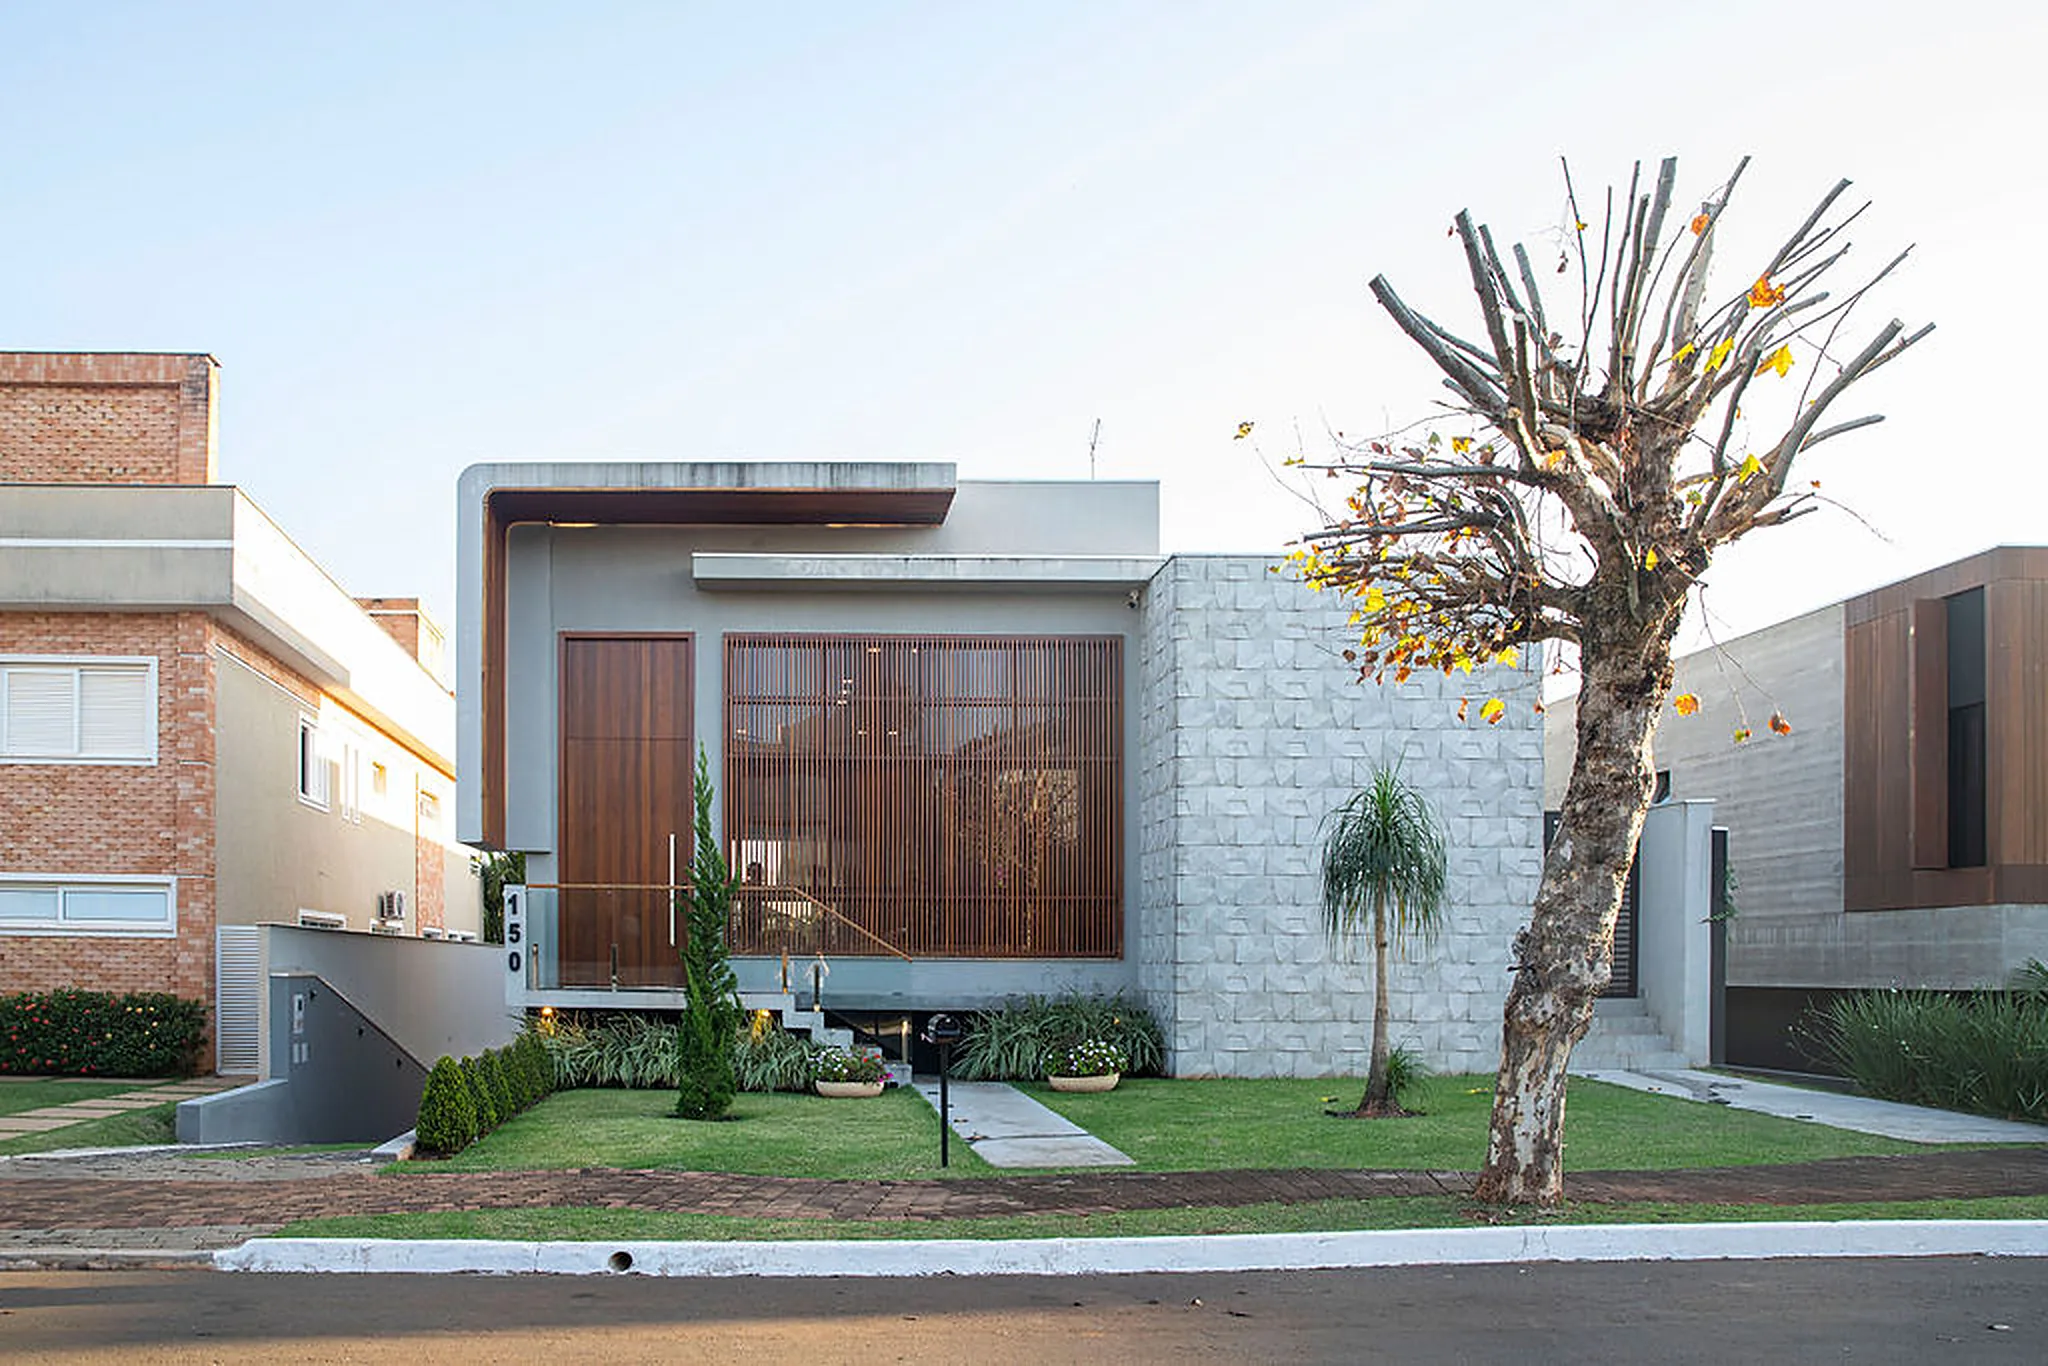
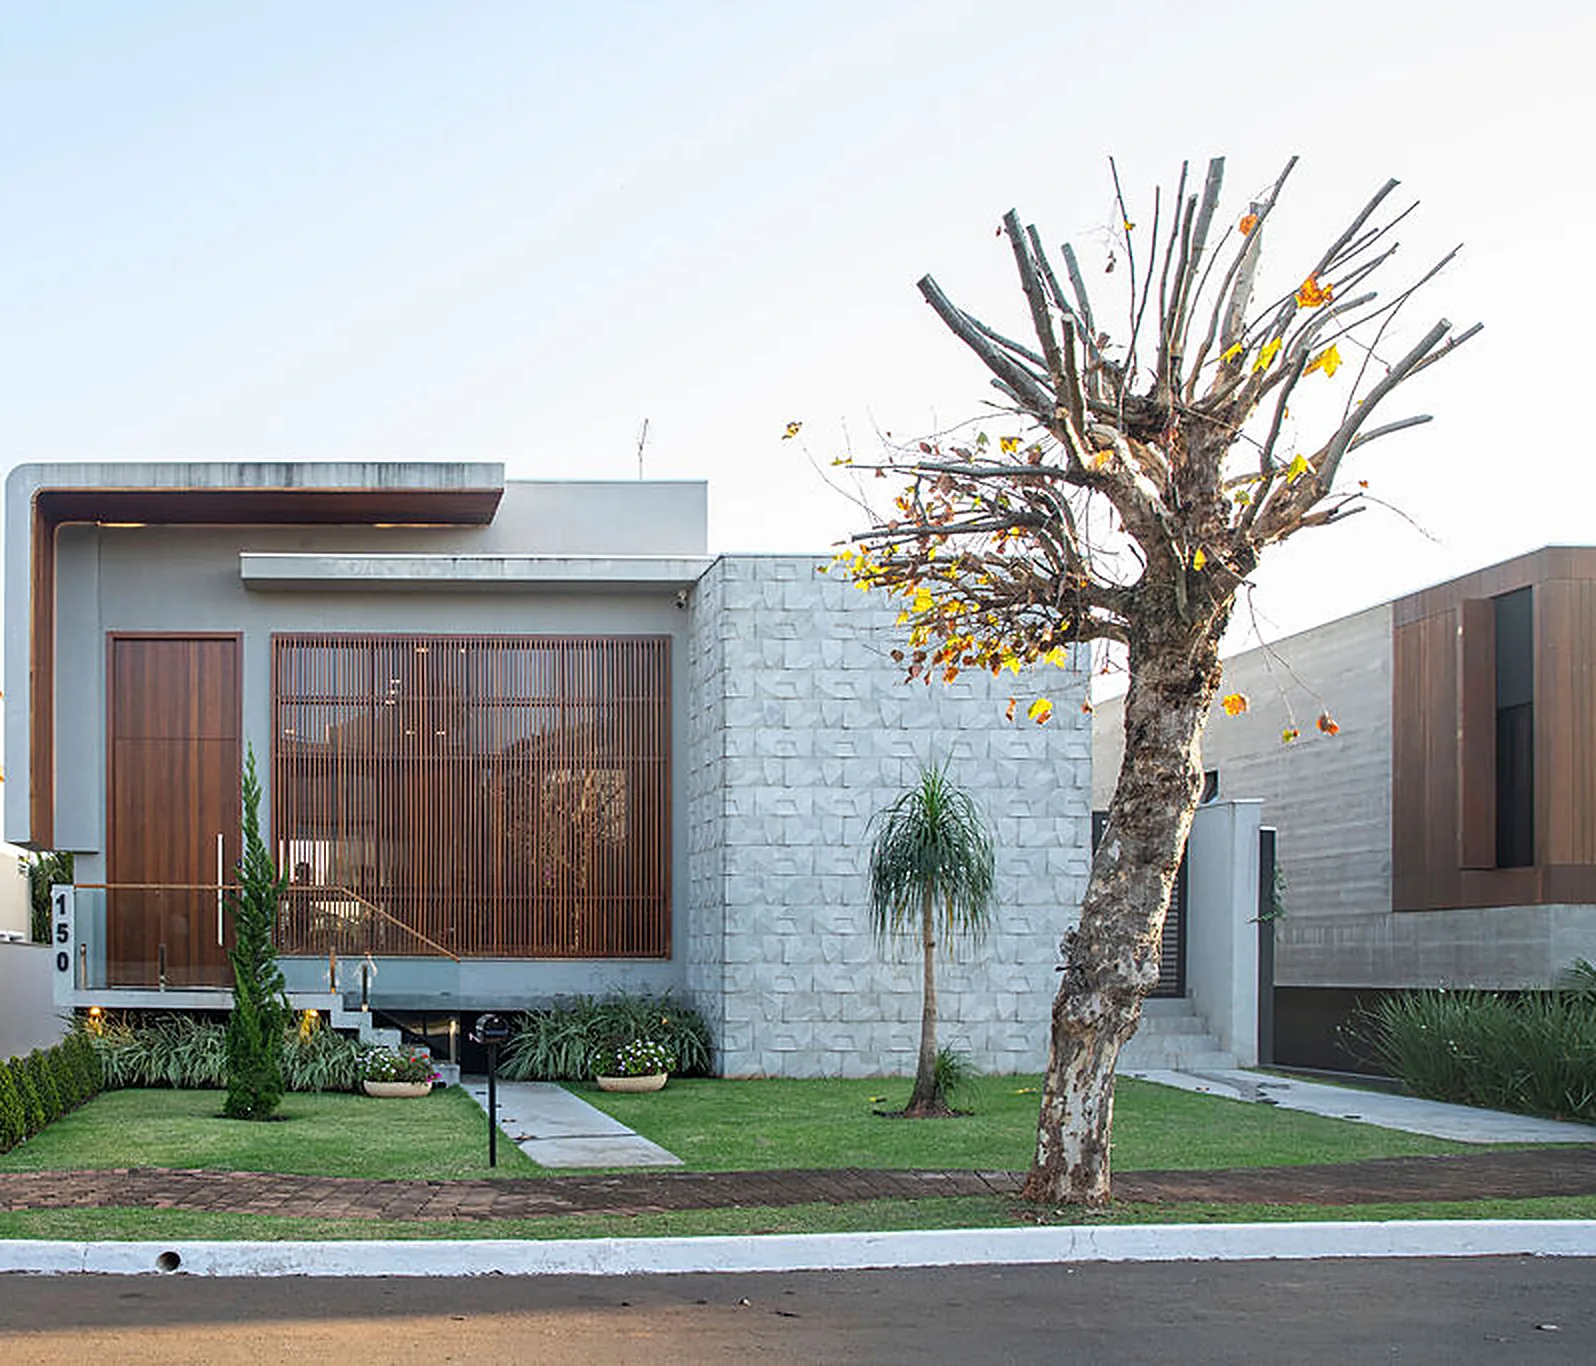
Tira a casa de tijolo da fachada no hero da CA0001
Recorte do JPEG original de x=226 até a borda direita (798x683), logo
antes da laje da casa à venda, então a vizinha de tijolo sai por inteiro.
Ampliado 2x com lanczos para 1596x1366, unsharp leve, webp q82 (239 KB).

No celular o hero corta as laterais, e com o recorte assimétrico o centro
caía na parede de pedra. object-position 28% traz o brise e a porta de
volta para o meio; no desktop a largura preenche a tela e isso não muda
nada.

diff --git a/royalpark-ca0001/public/css/style.css b/royalpark-ca0001/public/css/style.css
@@ -120,7 +120,8 @@ body.is-ready .nav { transform: none; opacity: 1; }
 /* ---------- Hero (mais baixo que o da AP0223) ---------- */
 .hero { position: relative; min-height: 92svh; display: flex; align-items: flex-end; padding: 110px var(--pad) 56px; overflow: hidden; color: #fff; --line: rgba(255,255,255,.22); --fg-2: rgba(255,255,255,.72); --champ: var(--brand-light); }
 .hero__bg { position: absolute; inset: 0; }
-.hero__bg img { width: 100%; height: 100%; object-fit: cover; transform: scale(1.15); opacity: 0; }
+/* no celular a foto é cortada nas laterais: 28% mantém o brise e a porta no centro */
+.hero__bg img { width: 100%; height: 100%; object-fit: cover; object-position: 28% 50%; transform: scale(1.15); opacity: 0; }
 /* a foto do hero é clara (gourmet ao sol), então o véu é um pouco mais forte
    que o da AP0223 para o texto branco continuar legível */
 .hero__bg::after { content: ''; position: absolute; inset: 0; background: linear-gradient(0deg, rgba(47,39,36,.96) 0%, rgba(47,39,36,.48) 45%, rgba(47,39,36,.62) 100%); }
